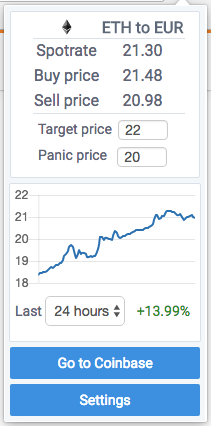
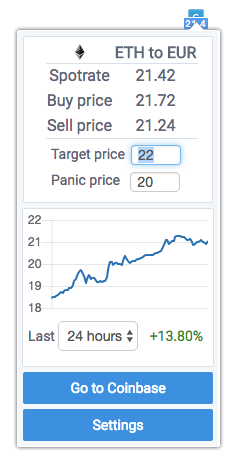
readme

Changed region(s): [[0.0, 0.0, 1.0, 1.0]]

diff --git a/js/background.js b/js/background.js
@@ -47,7 +47,8 @@ function updateTicker() {
                     }, 4000);
                 }
             }
-            chrome.browserAction.setBadgeText({text: priceString});
+            chrome.browserAction.setBadgeText({text: "21.4"});
+            //chrome.browserAction.setBadgeText({text: priceString});
             if(parseFloat(price) > localStorage.alertValue && localStorage.alertValue > 0){
                 createNotification(" is over ", localStorage.alertValue);
             }
